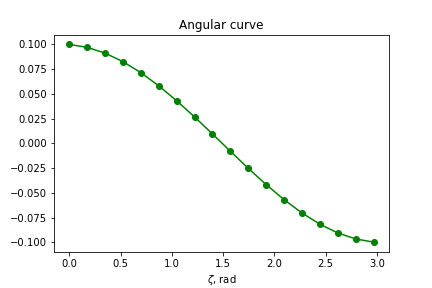
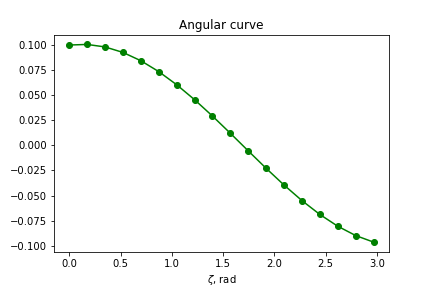
Working version

diff --git a/main.py b/main.py
@@ -17,8 +17,8 @@ frequency_mean = 0.1
 frequency_variation = 0.01
 
 """ Regime we are probing and angular resolution, in degrees"""
-short_wavelength_regime = True
-delta_zeta = 1
+short_wavelength_regime = False
+delta_zeta = 10
 
 
 def normalize(vector):
